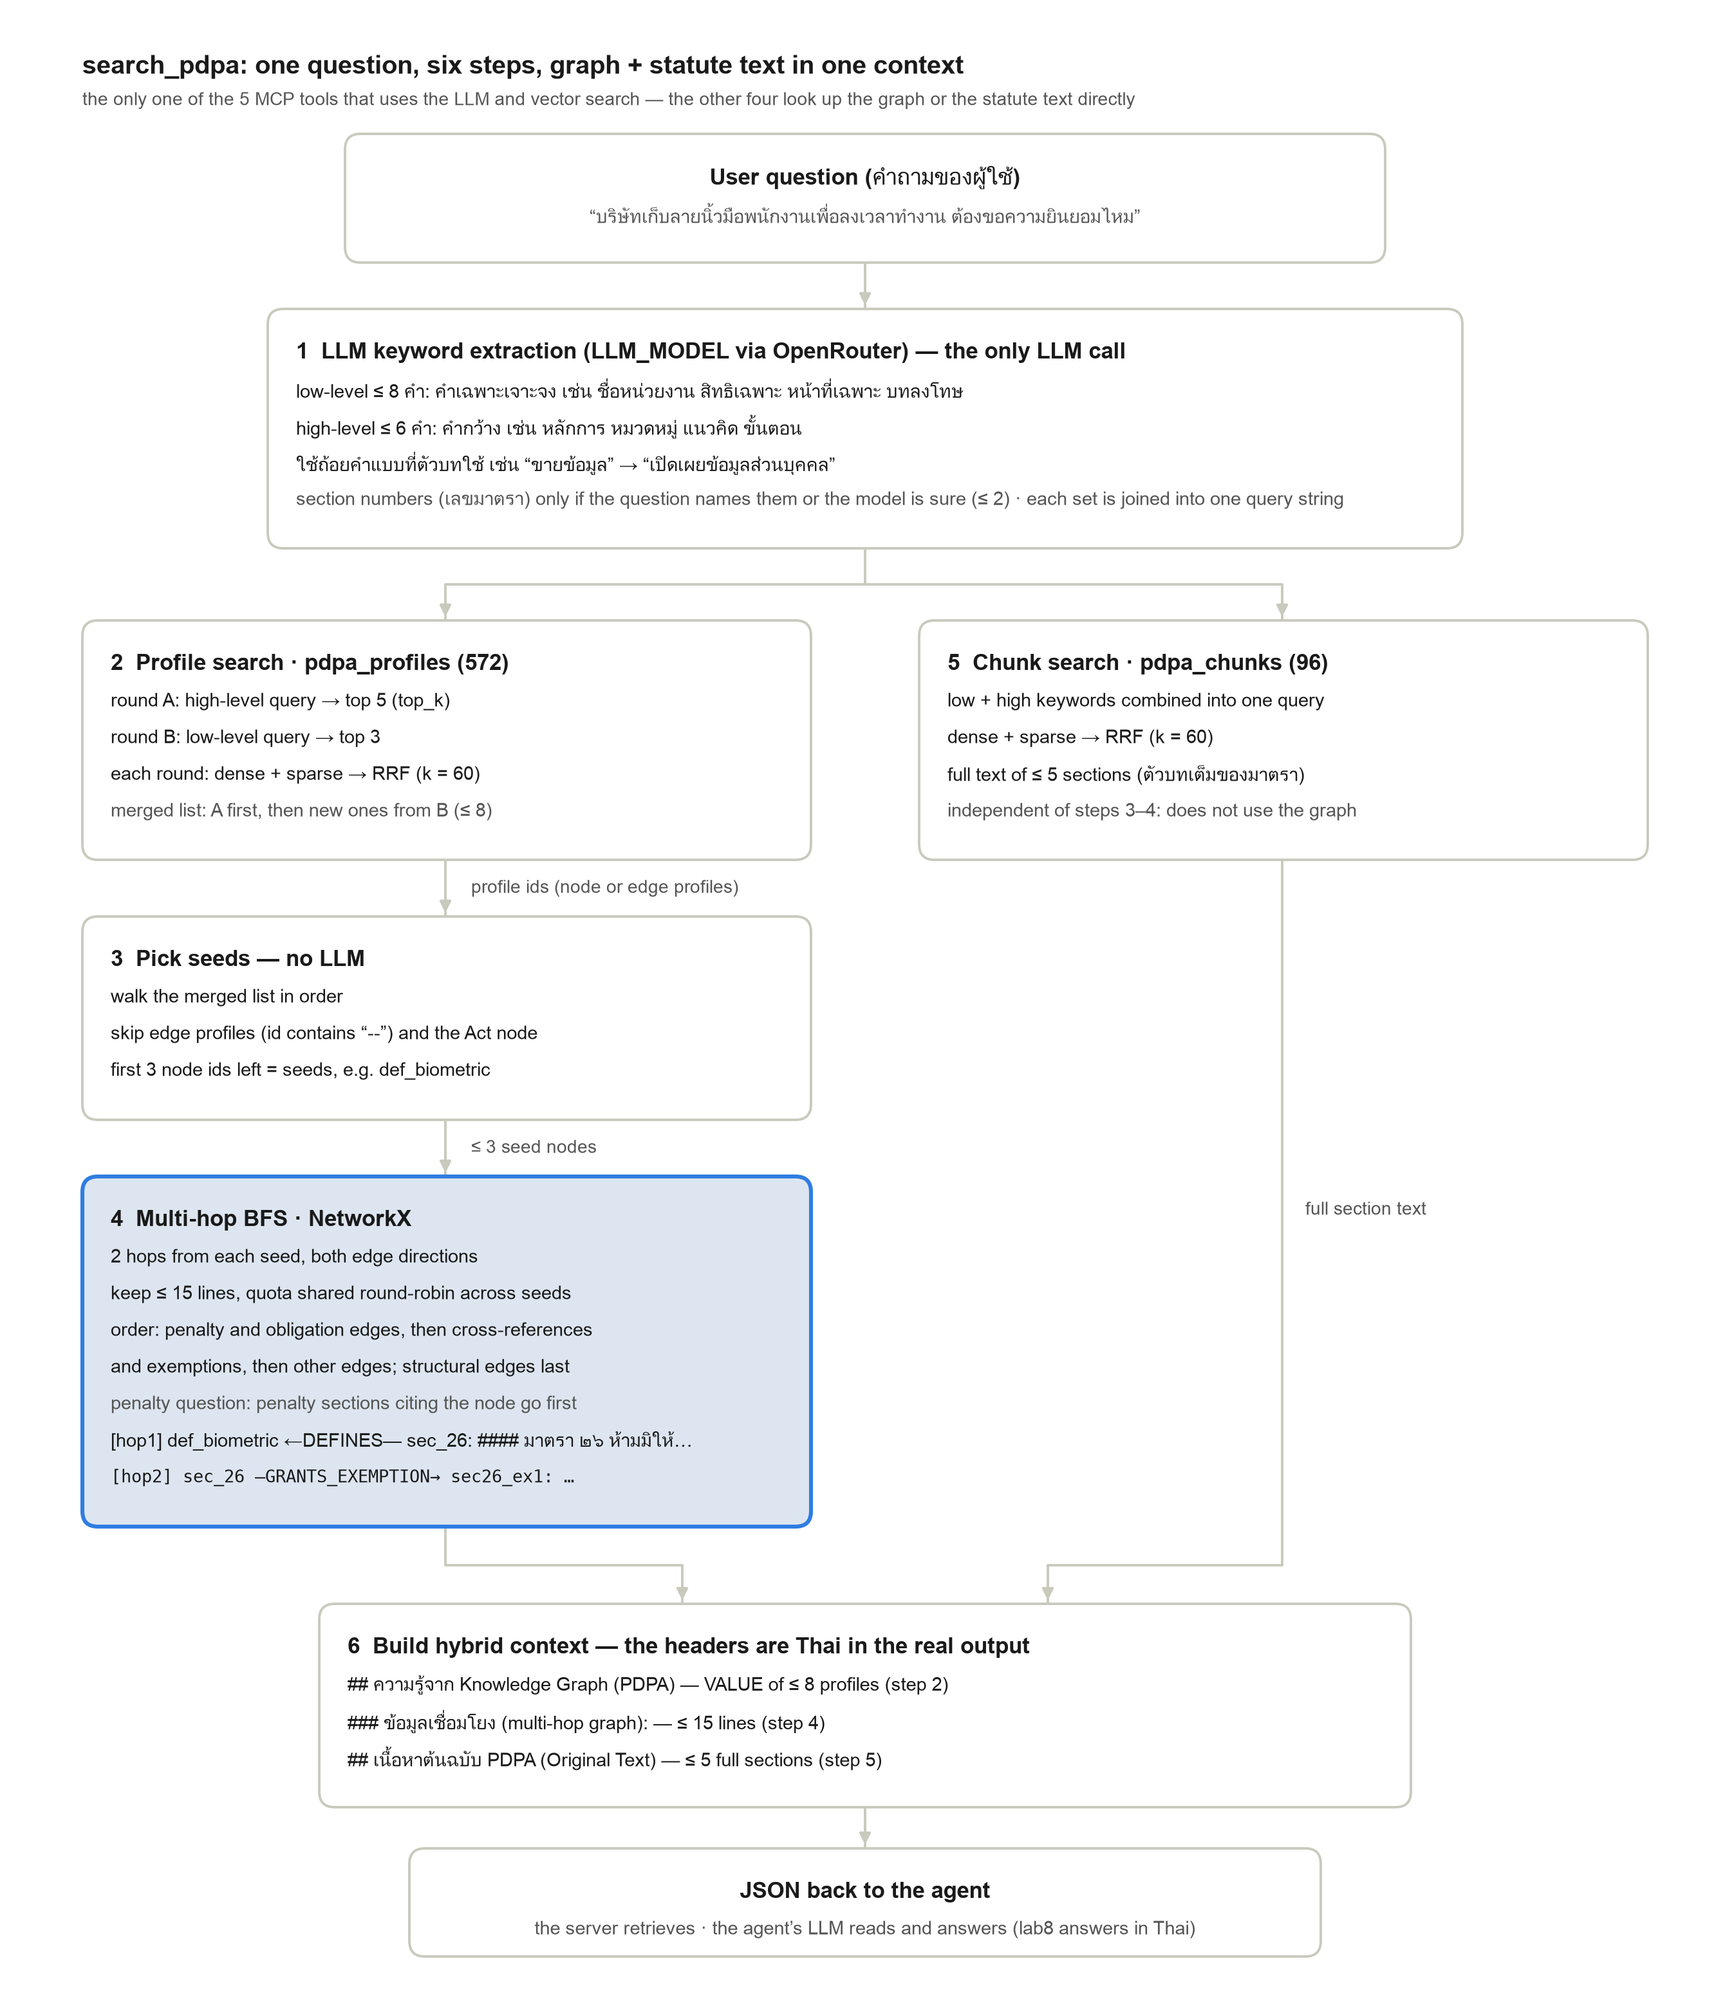
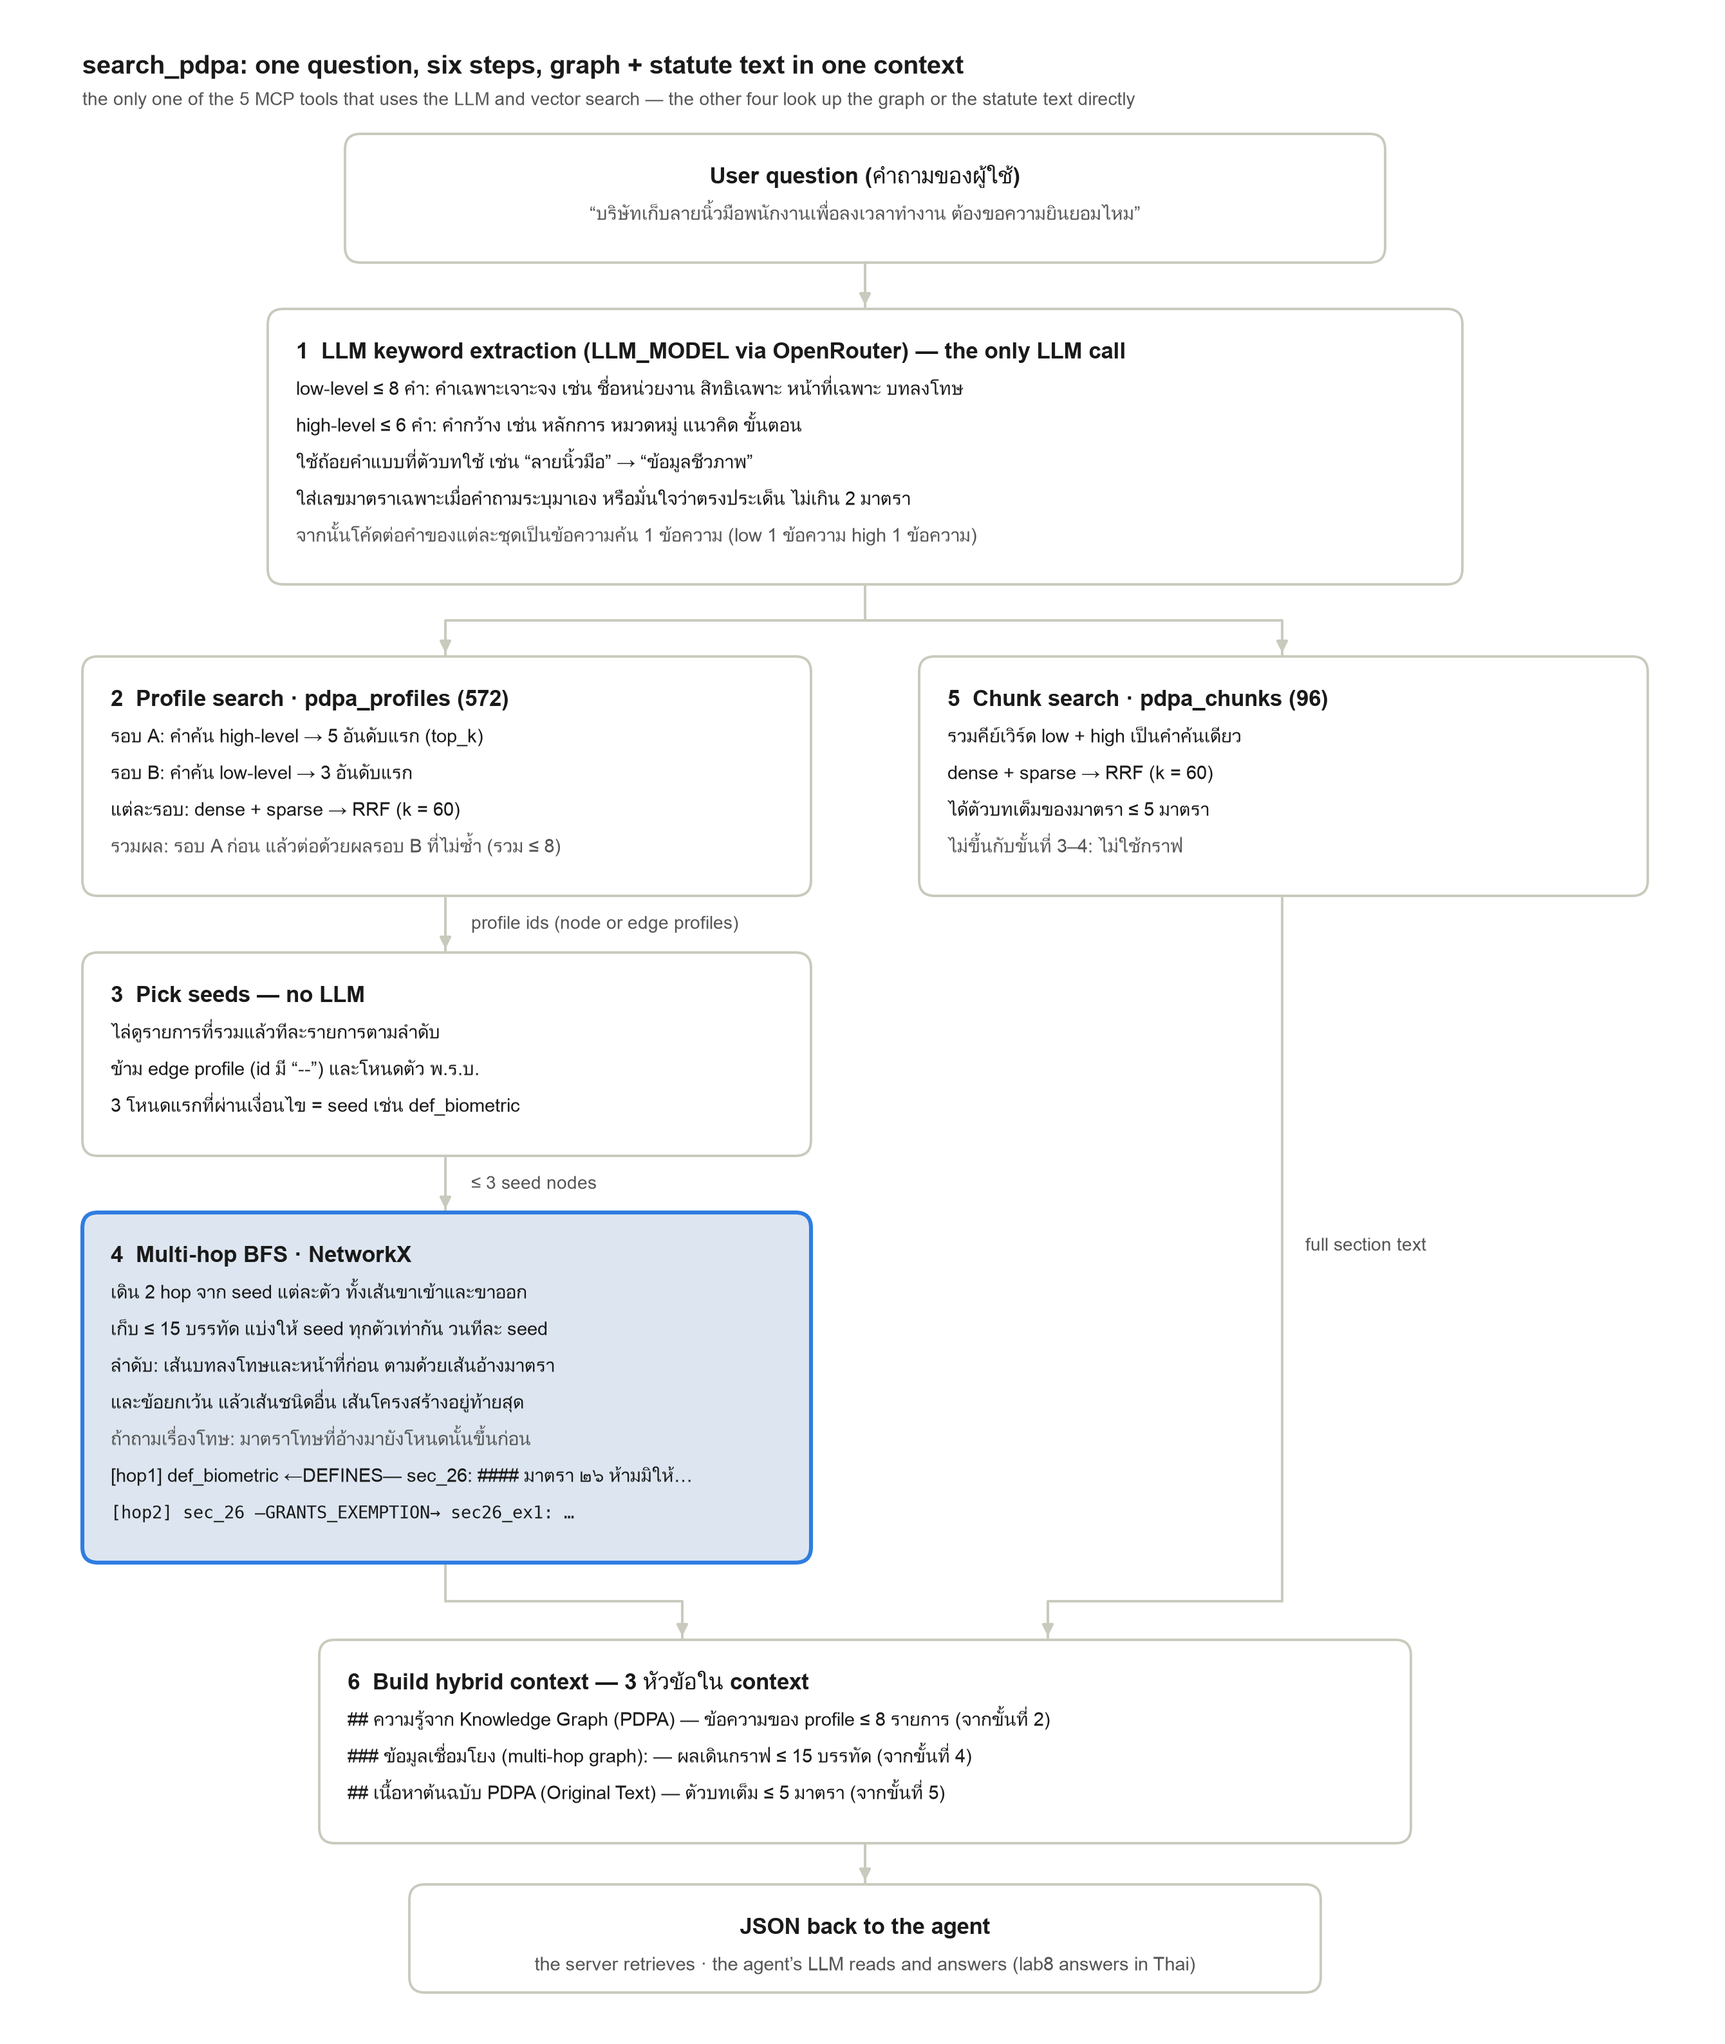
docs: fig3 — step text in Thai, clearer keyword rules, even line pitch
Step 1: the section-number rule and the joining of keywords are two lines;
the example follows the figure's question. Steps 2-6: body lines in Thai.
Lines with Thai are placed by baseline. fig1 is unchanged (same bytes).

Changed region(s): [[0.031, 0.0311, 0.8052, 0.9638], [0.5884, 0.7772, 0.7433, 0.8083], [0.7743, 0.5907, 0.8362, 0.6218]]

diff --git a/docs/figures/make_figures.py b/docs/figures/make_figures.py
@@ -38,12 +38,33 @@ def box(ax, x, y, w, h, title, lines, fill="white", edge=LINE, lw=1.4, center=Fa
     ax.add_patch(FancyBboxPatch((x, y), w, h, boxstyle="round,pad=0,rounding_size=12",
                                 fc=fill, ec=edge, lw=lw, zorder=2))
     tx, ha = (x + w / 2, "center") if center else (x + 22, "left")
-    ax.text(tx, y + 34, title, fontsize=title_size, fontweight="bold", color=INK, ha=ha, va="center", zorder=3)
+    t_thai = _has_thai(title)   # same rule as the body lines below
+    ax.text(tx, y + 34 + (_drop(ax, title_size, None, "bold") if t_thai else 0), title, fontsize=title_size,
+            fontweight="bold", color=INK, ha=ha, va="baseline" if t_thai else "center", zorder=3)
     for i, line in enumerate(lines):
         text, colour = (line, INK) if isinstance(line, str) else line
         family = "DejaVu Sans Mono" if i in mono else None
-        ax.text(tx, y + 63 + 28.5 * i, text, fontsize=9.6 if i in mono else 10.6, color=colour, ha=ha,
-                va="center", zorder=3, family=family)
+        size = 9.6 if i in mono else 10.6
+        # va="center" centres the ink of the line, so a Thai line with tall vowel or tone marks sits lower
+        # than its neighbours. Lines with Thai are placed by baseline instead, at the baseline a Latin-only
+        # line gets from "center"; Latin-only lines keep "center" so their pixels do not change.
+        thai = _has_thai(text)
+        ax.text(tx, y + 63 + 28.5 * i + (_drop(ax, size, family) if thai else 0), text, fontsize=size,
+                color=colour, ha=ha, va="baseline" if thai else "center", zorder=3, family=family)
+
+
+def _has_thai(text):
+    return any("\u0e00" <= ch <= "\u0e7f" for ch in text)
+
+
+def _drop(ax, size, family, weight=None):
+    """Distance in data units from the centre of a Latin line ("lp") down to its baseline."""
+    fig = ax.figure
+    probe = ax.text(0, 0, "lp", fontsize=size, family=family, fontweight=weight)
+    _, h, d = fig.canvas.get_renderer().get_text_width_height_descent(
+        "lp", probe.get_fontproperties(), ismath=False)
+    probe.remove()
+    return (h / 2 - d) / (fig.dpi / 100)
 
 
 def arrow(ax, pts, label=None, label_xy=None):
@@ -96,55 +117,58 @@ def fig1():
 
 
 def fig3():
-    # Thai is used wherever the running system uses Thai: the question, the keyword kinds named in the
-    # prompt, the statute text in a graph line, and the three context headers (copied from retrieval.py).
-    W, H = 1340, 1560
+    # Box titles, arrow labels and the last box are English. The body lines of steps 1-6 are Thai so that
+    # learners can read them. Copied from the running system: the question, the keyword kinds in the prompt,
+    # the statute text in a graph line and the three context headers (retrieval.py). The example in step 1
+    # ("ลายนิ้วมือ" -> "ข้อมูลชีวภาพ") follows the figure's question; it is not the example in the prompt.
+    W, H = 1340, 1588
     fig, ax = canvas(W, H, "search_pdpa: one question, six steps, graph + statute text in one context")
     ax.text(64, 78, "the only one of the 5 MCP tools that uses the LLM and vector search — the other four look up the graph or the statute text directly",
             fontsize=10.2, color=GREY, va="center")
     box(ax, 268, 104, 808, 100, "User question (คำถามของผู้ใช้)",
         [("“บริษัทเก็บลายนิ้วมือพนักงานเพื่อลงเวลาทำงาน ต้องขอความยินยอมไหม”", GREY)], center=True)
     arrow(ax, [(672, 204), (672, 240)])
-    box(ax, 208, 240, 928, 186, "1  LLM keyword extraction (LLM_MODEL via OpenRouter) — the only LLM call",
+    box(ax, 208, 240, 928, 214, "1  LLM keyword extraction (LLM_MODEL via OpenRouter) — the only LLM call",
         ["low-level ≤ 8 คำ: คำเฉพาะเจาะจง เช่น ชื่อหน่วยงาน สิทธิเฉพาะ หน้าที่เฉพาะ บทลงโทษ",
          "high-level ≤ 6 คำ: คำกว้าง เช่น หลักการ หมวดหมู่ แนวคิด ขั้นตอน",
-         "ใช้ถ้อยคำแบบที่ตัวบทใช้ เช่น “ขายข้อมูล” → “เปิดเผยข้อมูลส่วนบุคคล”",
-         ("section numbers (เลขมาตรา) only if the question names them or the model is sure (≤ 2) · each set is joined into one query string", GREY)])
-    arrow(ax, [(672, 426), (672, 454), (346, 454), (346, 482)])
-    arrow(ax, [(672, 454), (996, 454), (996, 482)])
-    box(ax, 64, 482, 566, 186, "2  Profile search · pdpa_profiles (572)",
-        ["round A: high-level query → top 5 (top_k)",
-         "round B: low-level query → top 3",
-         "each round: dense + sparse → RRF (k = 60)",
-         ("merged list: A first, then new ones from B (≤ 8)", GREY)])
-    box(ax, 714, 482, 566, 186, "5  Chunk search · pdpa_chunks (96)",
-        ["low + high keywords combined into one query",
+         "ใช้ถ้อยคำแบบที่ตัวบทใช้ เช่น “ลายนิ้วมือ” → “ข้อมูลชีวภาพ”",
+         "ใส่เลขมาตราเฉพาะเมื่อคำถามระบุมาเอง หรือมั่นใจว่าตรงประเด็น ไม่เกิน 2 มาตรา",
+         ("จากนั้นโค้ดต่อคำของแต่ละชุดเป็นข้อความค้น 1 ข้อความ (low 1 ข้อความ high 1 ข้อความ)", GREY)])
+    arrow(ax, [(672, 454), (672, 482), (346, 482), (346, 510)])
+    arrow(ax, [(672, 482), (996, 482), (996, 510)])
+    box(ax, 64, 510, 566, 186, "2  Profile search · pdpa_profiles (572)",
+        ["รอบ A: คำค้น high-level → 5 อันดับแรก (top_k)",
+         "รอบ B: คำค้น low-level → 3 อันดับแรก",
+         "แต่ละรอบ: dense + sparse → RRF (k = 60)",
+         ("รวมผล: รอบ A ก่อน แล้วต่อด้วยผลรอบ B ที่ไม่ซ้ำ (รวม ≤ 8)", GREY)])
+    box(ax, 714, 510, 566, 186, "5  Chunk search · pdpa_chunks (96)",
+        ["รวมคีย์เวิร์ด low + high เป็นคำค้นเดียว",
          "dense + sparse → RRF (k = 60)",
-         "full text of ≤ 5 sections (ตัวบทเต็มของมาตรา)",
-         ("independent of steps 3–4: does not use the graph", GREY)])
-    arrow(ax, [(346, 668), (346, 712)], "profile ids (node or edge profiles)", (366, 690))
-    box(ax, 64, 712, 566, 158, "3  Pick seeds — no LLM",
-        ["walk the merged list in order",
-         "skip edge profiles (id contains “--”) and the Act node",
-         "first 3 node ids left = seeds, e.g. def_biometric"])
-    arrow(ax, [(346, 870), (346, 914)], "≤ 3 seed nodes", (366, 892))
-    box(ax, 64, 914, 566, 272, "4  Multi-hop BFS · NetworkX",
-        ["2 hops from each seed, both edge directions",
-         "keep ≤ 15 lines, quota shared round-robin across seeds",
-         "order: penalty and obligation edges, then cross-references",
-         "and exemptions, then other edges; structural edges last",
-         ("penalty question: penalty sections citing the node go first", GREY),
+         "ได้ตัวบทเต็มของมาตรา ≤ 5 มาตรา",
+         ("ไม่ขึ้นกับขั้นที่ 3–4: ไม่ใช้กราฟ", GREY)])
+    arrow(ax, [(346, 696), (346, 740)], "profile ids (node or edge profiles)", (366, 718))
+    box(ax, 64, 740, 566, 158, "3  Pick seeds — no LLM",
+        ["ไล่ดูรายการที่รวมแล้วทีละรายการตามลำดับ",
+         "ข้าม edge profile (id มี “--”) และโหนดตัว พ.ร.บ.",
+         "3 โหนดแรกที่ผ่านเงื่อนไข = seed เช่น def_biometric"])
+    arrow(ax, [(346, 898), (346, 942)], "≤ 3 seed nodes", (366, 920))
+    box(ax, 64, 942, 566, 272, "4  Multi-hop BFS · NetworkX",
+        ["เดิน 2 hop จาก seed แต่ละตัว ทั้งเส้นขาเข้าและขาออก",
+         "เก็บ ≤ 15 บรรทัด แบ่งให้ seed ทุกตัวเท่ากัน วนทีละ seed",
+         "ลำดับ: เส้นบทลงโทษและหน้าที่ก่อน ตามด้วยเส้นอ้างมาตรา",
+         "และข้อยกเว้น แล้วเส้นชนิดอื่น เส้นโครงสร้างอยู่ท้ายสุด",
+         ("ถ้าถามเรื่องโทษ: มาตราโทษที่อ้างมายังโหนดนั้นขึ้นก่อน", GREY),
          "[hop1] def_biometric ←DEFINES— sec_26: #### มาตรา ๒๖ ห้ามมิให้…",
          "[hop2] sec_26 —GRANTS_EXEMPTION→ sec26_ex1: …"],
         fill=BLUE_FILL, edge=BLUE_EDGE, lw=2.2, mono=(6,))
-    arrow(ax, [(346, 1186), (346, 1216), (530, 1216), (530, 1246)])
-    arrow(ax, [(996, 668), (996, 1216), (814, 1216), (814, 1246)], "full section text", (1014, 940))
-    box(ax, 248, 1246, 848, 158, "6  Build hybrid context — the headers are Thai in the real output",
-        ["## ความรู้จาก Knowledge Graph (PDPA) — VALUE of ≤ 8 profiles (step 2)",
-         "### ข้อมูลเชื่อมโยง (multi-hop graph): — ≤ 15 lines (step 4)",
-         "## เนื้อหาต้นฉบับ PDPA (Original Text) — ≤ 5 full sections (step 5)"])
-    arrow(ax, [(672, 1404), (672, 1436)])
-    box(ax, 318, 1436, 708, 84, "JSON back to the agent",
+    arrow(ax, [(346, 1214), (346, 1244), (530, 1244), (530, 1274)])
+    arrow(ax, [(996, 696), (996, 1244), (814, 1244), (814, 1274)], "full section text", (1014, 968))
+    box(ax, 248, 1274, 848, 158, "6  Build hybrid context — 3 หัวข้อใน context",
+        ["## ความรู้จาก Knowledge Graph (PDPA) — ข้อความของ profile ≤ 8 รายการ (จากขั้นที่ 2)",
+         "### ข้อมูลเชื่อมโยง (multi-hop graph): — ผลเดินกราฟ ≤ 15 บรรทัด (จากขั้นที่ 4)",
+         "## เนื้อหาต้นฉบับ PDPA (Original Text) — ตัวบทเต็ม ≤ 5 มาตรา (จากขั้นที่ 5)"])
+    arrow(ax, [(672, 1432), (672, 1464)])
+    box(ax, 318, 1464, 708, 84, "JSON back to the agent",
         [("the server retrieves · the agent’s LLM reads and answers (lab8 answers in Thai)", GREY)], center=True)
     fig.savefig(OUT / "fig3_search_pipeline.png", facecolor="white"); plt.close(fig)
 

diff --git a/README.md b/README.md
@@ -86,7 +86,7 @@ README.en.md, LICENSE
 
 รูปทั้งสองสร้างด้วย [สคริปต์ Matplotlib](docs/figures/make_figures.py)
 ให้ตรงกับกราฟ 190 โหนด / 382 เส้น และ Qdrant 572 profiles / 96 chunks
-รูปขั้นตอนค้นเรนเดอร์เมื่อ 18 พ.ย. 2569 ส่วนรูปสถาปัตยกรรมเรนเดอร์ใหม่เมื่อ 20 พ.ย. 2569
+รูปสถาปัตยกรรมเรนเดอร์ใหม่เมื่อ 20 พ.ย. 2569 ส่วนรูปขั้นตอนค้นเรนเดอร์ใหม่เมื่อ 21 พ.ย. 2569
 
 ## เริ่มใช้งาน
 

diff --git a/README.en.md b/README.en.md
@@ -76,8 +76,8 @@ README.md, LICENSE
 ![Architecture: Agent -> MCP Server -> Engine -> Data](docs/fig1_architecture.png)
 
 Both figures are drawn by the [Matplotlib script](docs/figures/make_figures.py) to show
-190 nodes / 382 edges and Qdrant's 572 profiles / 96 chunks. The search pipeline figure was rendered
-on 18 Nov 2026 and the architecture figure was re-rendered on 20 Nov 2026.
+190 nodes / 382 edges and Qdrant's 572 profiles / 96 chunks. The architecture figure was re-rendered
+on 20 Nov 2026 and the search pipeline figure on 21 Nov 2026.
 
 - **Knowledge graph**: NetworkX, in memory. 190 nodes of 11 types: Section 96, Exemption 33, Definition 11,
   Chapter 9, Right 8, LawfulBasis 7, Obligation 7, Principle 7, Penalty 6, Part 5 and Law 1. The backbone
